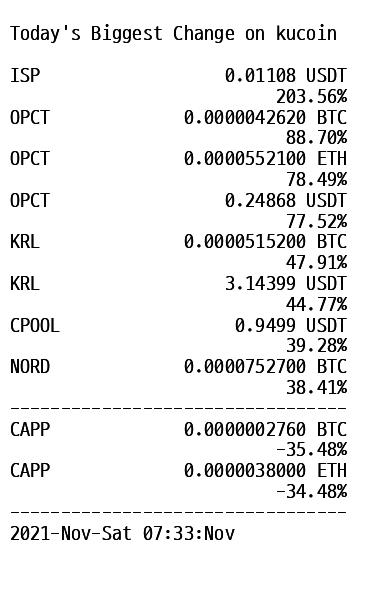
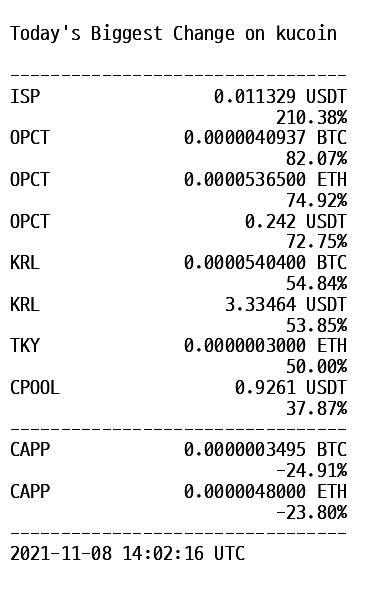
Spot 추가

diff --git a/worker/today.php b/worker/today.php
@@ -29,7 +29,8 @@ if(!empty($_exchanges)) {
         $_exchange = tickValidator($_exchange);
         $medias = [];
         $mediaIds = [];
-        $medias[] = exportImage(sortPsersentage($exchangeId, $_exchange), $exchangeId.'_persentage');
+        $medias[] = exportImage(sortPsersentage($exchangeId, $_exchange), $exchangeId."_persentage");
+        $medias[] = exportImage(spot($exchangeId, $_exchange), $exchangeId."_spot");
         /**
          * todo add some analysis images
          * $medias[] = someMethod();
@@ -61,6 +62,7 @@ function sortPsersentage(string $exchangeId, array $exchange) : string
     $ups = $percentages;
     krsort($ups);
     $message = "\nToday's Biggest Change on $exchangeId\n\n";
+    $message .= getStringSpace(0, "-")."\n";
     foreach(array_splice($ups,0,8) as ['symbol'=>$symbol, 'percentage'=>$percentage, 'last'=>$last]) {
         $percentage = number_format($percentage, 2);
         if($last < 0.01) {
@@ -73,6 +75,58 @@ function sortPsersentage(string $exchangeId, array $exchange) : string
     ksort($downs);
     $message .= getStringSpace(0, "-")."\n";
     foreach(array_splice($downs,0,2) as ['symbol'=>$symbol, 'percentage'=>$percentage, 'last'=>$last]) {
+        $percentage = number_format($percentage, 2);
+        if($last < 0.01) {
+            $last = number_format($last, 10);
+        }
+        [0=>$coinName, 1=>$baseCurrencyName] = explode('/',$symbol);
+        $message .= alignmentLeftRight("$coinName", "$last $baseCurrencyName", "$percentage%");
+    }
+    $message .= getStringSpace(0, "-")."\n";
+    $message .= date('Y-m-d H:i:s')." UTC\n\n";
+    echo $message;
+    return $message;
+}
+
+function spot(string $exchangeId, array $exchange) : string
+{
+    $usdtSymbols = [
+        'BTC/USDT',
+        'ETH/USDT',
+        'SHIB/USDT',
+        'BUSD/USDT',
+        'BNB/USDT',
+        'DOGE/USDT',
+        'XRP/USDT',
+        'AVAX/USDT',
+        'SOL/USDT',
+        'TRX/USDT',
+    ];
+    $krwSymbols = [
+        'BTC/KRW',
+        'ETH/KRW',
+        'LUNA/KRW',
+        'FIL/KRW',
+        'ADA/KRW',
+        'DOGE/KRW',
+        'XRP/KRW',
+        'AVAX/KRW',
+        'SOL/KRW',
+        'KLAY/KRW',
+    ];
+    $symbols = $usdtSymbols;
+    if(in_array($exchangeId, ['coinone'])) {
+        $symbols = $krwSymbols;
+    }
+    $spots = [];
+    foreach($exchange as $symbol => $data) {
+        if(in_array($symbol, $symbols)) {
+            $spots[$symbol] = $data;
+        }
+    }
+    $message = "\nSpot on $exchangeId\n\n";
+    $message .= getStringSpace(0, "-")."\n";
+    foreach(array_splice($spots,0,10) as ['symbol'=>$symbol, 'percentage'=>$percentage, 'last'=>$last]) {
         $percentage = number_format($percentage, 2);
         if($last < 0.01) {
             $last = number_format($last, 10);
